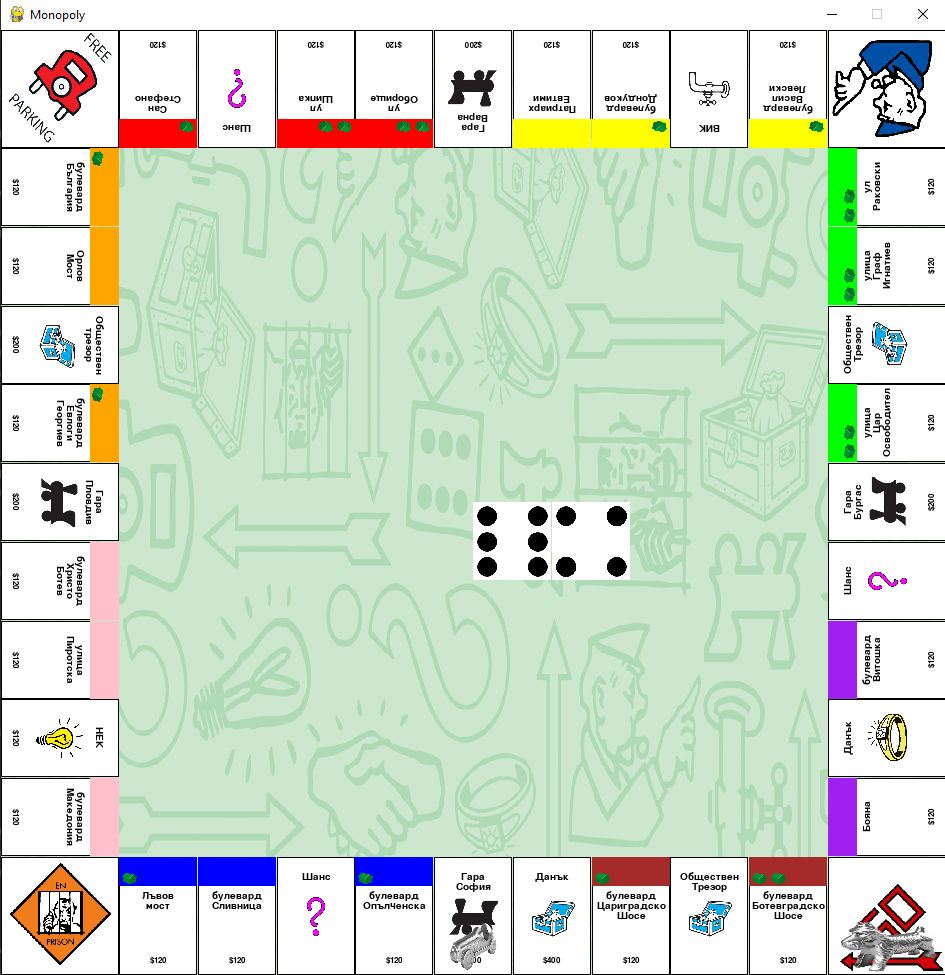
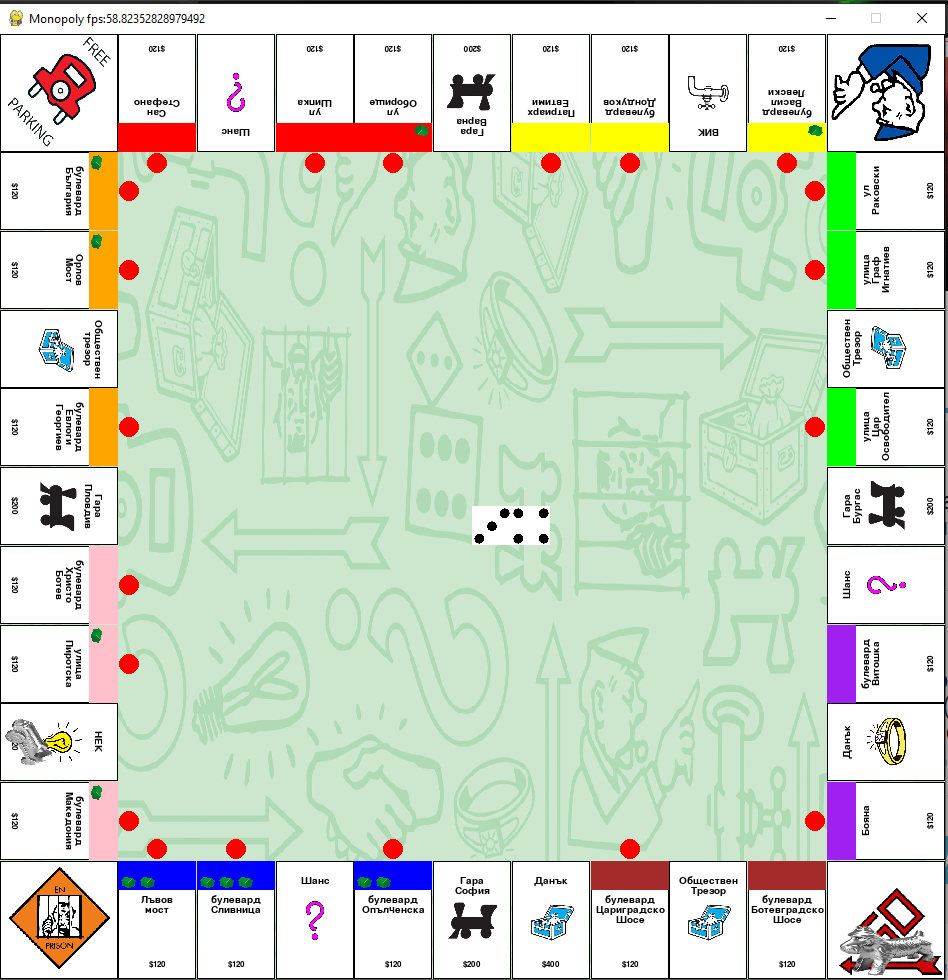
making dots for reserved spots

diff --git a/sprites/base_map_card.py b/sprites/base_map_card.py
@@ -26,6 +26,9 @@ class BaseMapCard(Texture):
         self.players = {}
         self.temporary_players = {}
         self.temporary_image = None
+        self.owner = None
+        self.owner_circle = None
+        self.owner_circle_pos = self.get_circle_pos()
         self.house_price = house_price
         self.top_inner_rect = pygame.Rect(0, 0, self.width, self.height / 4)
         self.side_image_type = side_image_type
@@ -33,6 +36,22 @@ class BaseMapCard(Texture):
         self.event_list = [
             MapCardEvent
         ]
+
+    def get_circle_pos(self):
+        if self.rotation == 0:
+            current_x = self.x + self.width / 2
+            current_y = self.y - self.height / 10
+
+        elif self.rotation == 270:
+            current_x = self.height + self.height / 10
+            current_y = self.y + self.width / 2
+        elif self.rotation == 180:
+            current_x = self.x + self.width / 2
+            current_y = self.height + self.height / 10
+        else:
+            current_x = self.x - self.height / 10
+            current_y = self.y + self.width / 2
+        return current_x, current_y
 
     def load_inside_image(self):
         if self.inside_image_path:
@@ -89,10 +108,19 @@ class BaseMapCard(Texture):
             self.create_text_and_blit(self.image, word, size, (0, 0, 0), (width, height + padding_counter))
             padding_counter += padding
 
+    def draw_houses(self):
+        pass
+
     def blit(self, window):
         self.load_pieces()
+        self.draw_circle(window)
+        self.draw_houses()
         rotated_image = pygame.transform.rotate(self.temporary_image, self.rotation)
         rect = rotated_image.get_rect()
         rect.x = self.x
         rect.y = self.y
         window.blit(rotated_image, rect)
+
+    def draw_circle(self, window):
+        if self.owner:
+            pygame.draw.circle(window, self.owner.color, self.owner_circle_pos, 10)

diff --git a/renderers/board_render.py b/renderers/board_render.py
@@ -11,8 +11,8 @@ class BoardRenderer(Renderer):
         super().__init__()
         self.board = Board(self)
 
-        player1 = Player("pavkata", "car.png")
-        player2 = Player("pavkata", "dog.png")
+        player1 = Player("pavkata", "car.png", "red")
+        player2 = Player("pavkata", "dog.png", "green")
         self.board.sprites()[0].players = {
             player1: player1.piece_image,
             player2: player2.piece_image,

diff --git a/player.py b/player.py
@@ -6,7 +6,8 @@ from client import Client
 
 
 class Player:
-    def __init__(self, name, piece_image_location):
+    def __init__(self, name, piece_image_location, color):
+        self.color = color
         self.name = name
         self.board_index = 0
         self.money = 1000
